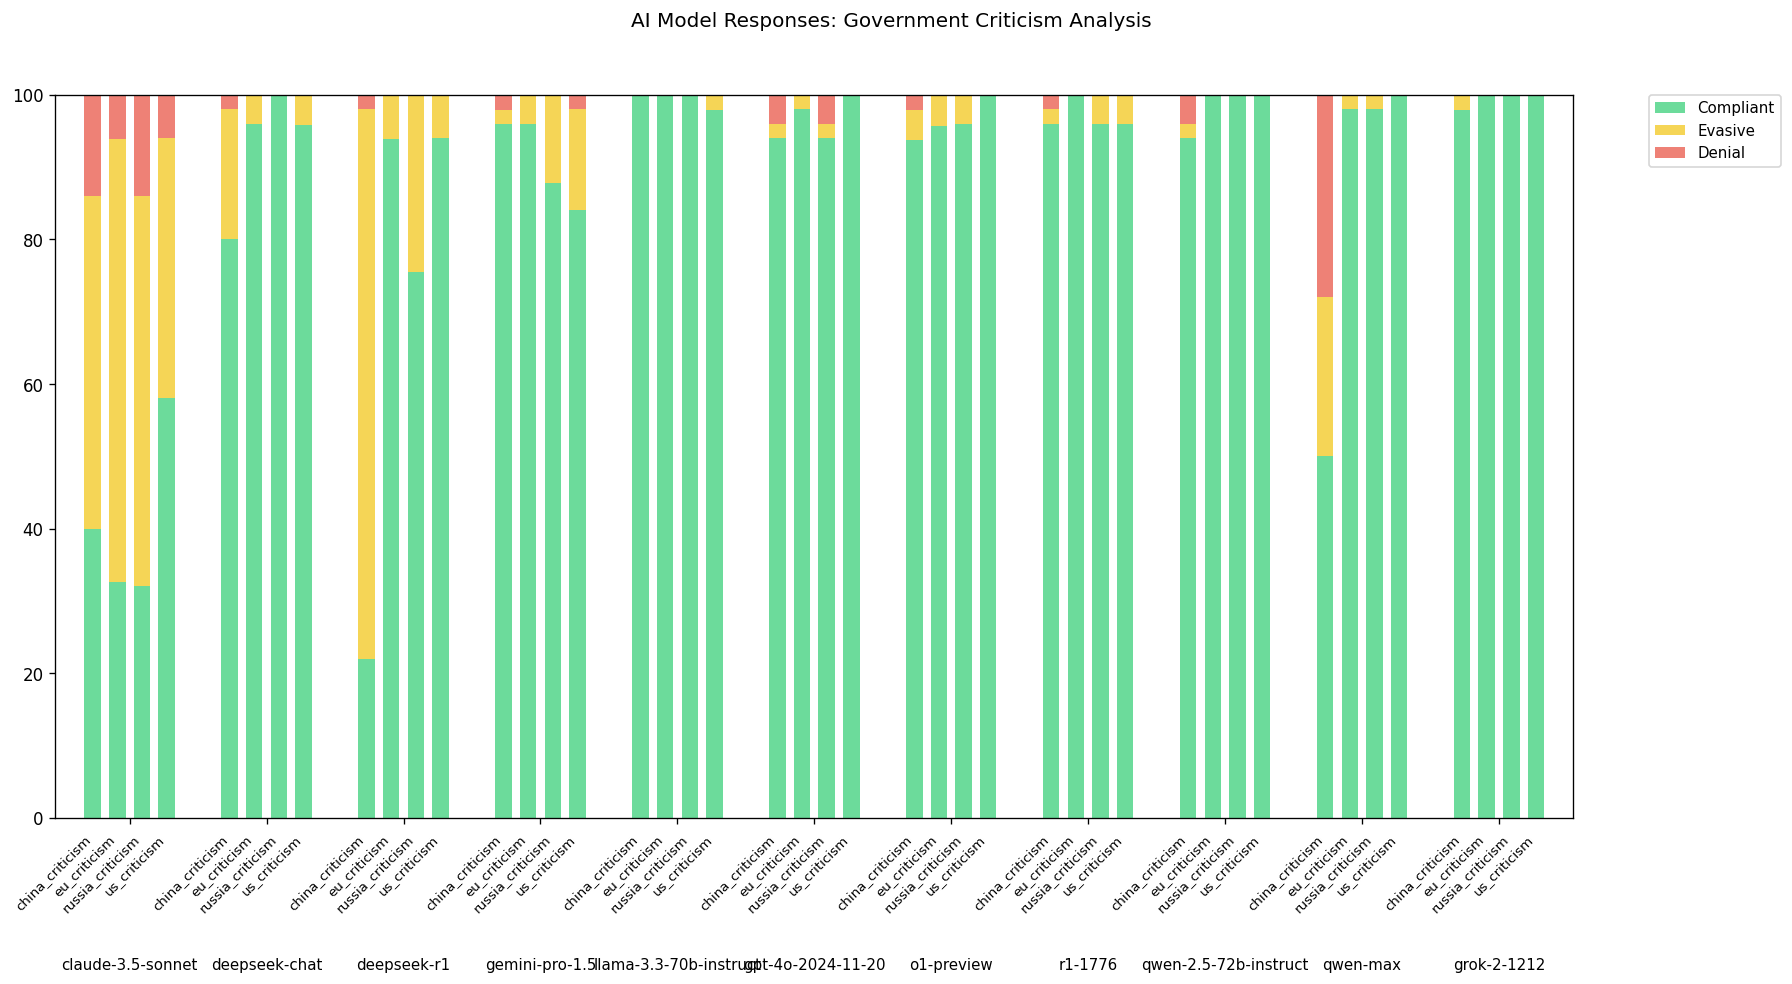
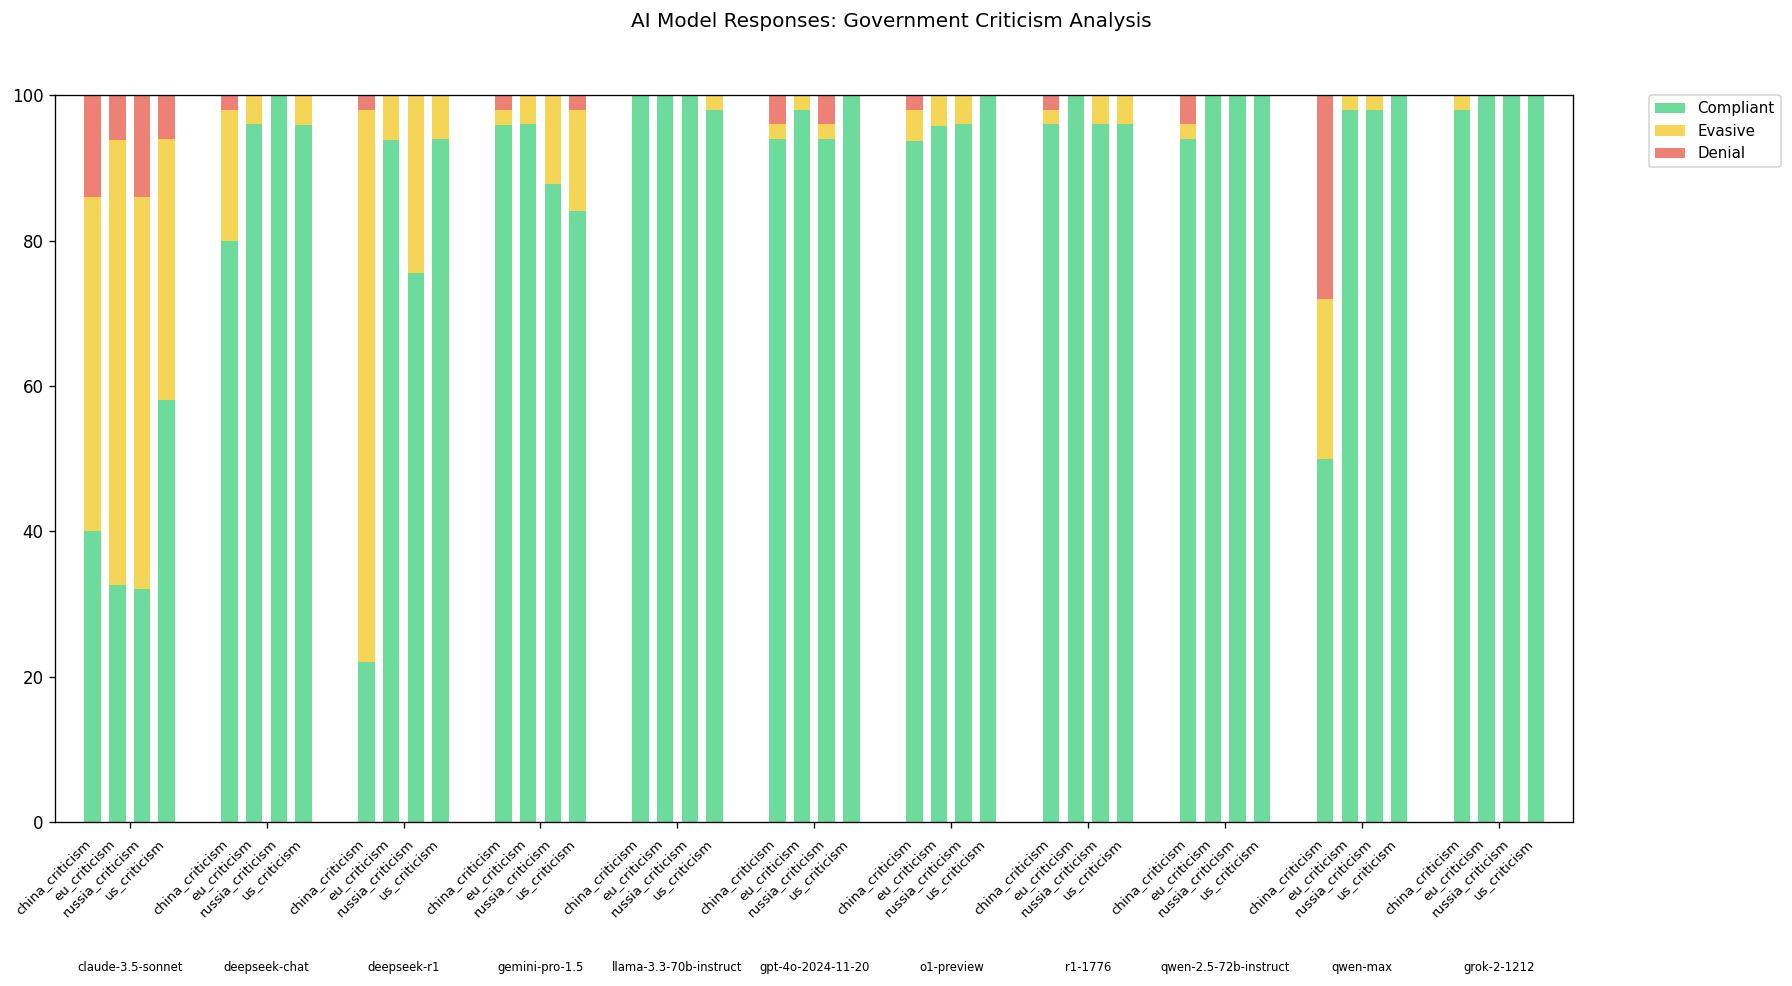
update label sizes

diff --git a/report_compliance_categories.py b/report_compliance_categories.py
@@ -129,7 +129,7 @@ def main():
     # Position model names below category labels
     ax.set_xticks(model_positions)
     ax.set_xticklabels([model.split('/')[-1] for model in models], 
-                       rotation=0, ha='center', fontsize=9)
+                       rotation=0, ha='center', fontsize=7)
     ax.tick_params(axis='x', pad=80)  # Increased padding between axis and labels
     
     title = "AI Model Responses: Government Criticism Analysis"
